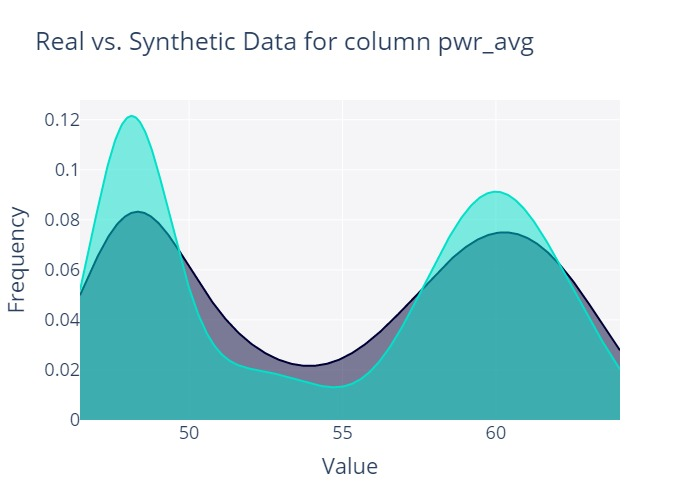
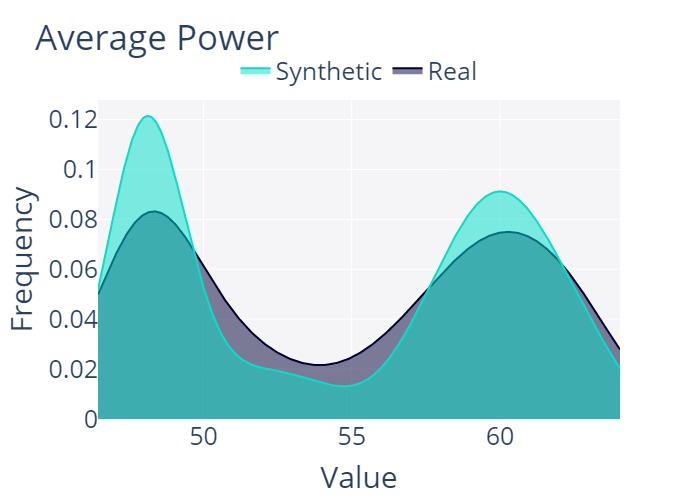
figures updated

diff --git a/TVAE Synthesizer/graph_generate.py b/TVAE Synthesizer/graph_generate.py
@@ -19,6 +19,18 @@ column_name_wo_target = ['occupancy', 'ILP',
        'intensity', 'reuse_ratio', 'ld_coalesce', 'L2_hit_rate',
        'L1_hit_rate', 'branch_eff']
 
+column_name_map = {
+    'occupancy': 'Occupancy',
+    'ILP': 'Instruction-Level Parallelism',
+    'intensity': 'Intensity',
+    'reuse_ratio': 'Reuse Ratio',
+    'ld_coalesce': 'Load Coalescence',
+    'L2_hit_rate': 'L2 Cache Hit Rate',
+    'L1_hit_rate': 'L1 Cache Hit Rate',
+    'branch_eff': 'Branch Efficiency',
+    'pwr_avg': 'Average Power'
+}
+
 
 real_data = data[column_name].copy()
 
@@ -59,7 +71,18 @@ def fig_generator(feature):
         metadata=metadata,
         column_name=feature
     )
-    fig.update_layout(showlegend=False, font=dict(size=18))
+    fig.update_layout(
+        title=f"{column_name_map[feature]}",
+        showlegend=True,
+        font=dict(size=25),
+        legend=dict(
+            orientation='h',
+            yanchor='bottom',
+            y=1.02,
+            xanchor='center',
+            x=0.5
+        )
+    )   
     fig.write_image(f"figure/{feature}.jpg")
     """
     if feature!='pwr_avg':
@@ -88,8 +111,8 @@ sns.set_context("talk", font_scale=1.4)
 corr = synthetic_data.corr()
 plt.figure(figsize=(10, 8))
 sns.heatmap(corr, cmap='coolwarm',annot=False, cbar=False)
-plt.title('TVAE synthetic Data Correlation Heatmap', fontsize=20)
-plt.tight_layout(rect=[0, 0, 1, 0.95])  # Adjust this to give more space for the title
+plt.title('TVAE synthetic Data Correlation Heatmap', fontsize=25)
+plt.tight_layout(rect=[0, 0, 1, 0.95])  
 plt.savefig('figure/TVAE synthetic Data Correlation Heatmap.jpg')
 plt.close()
 
